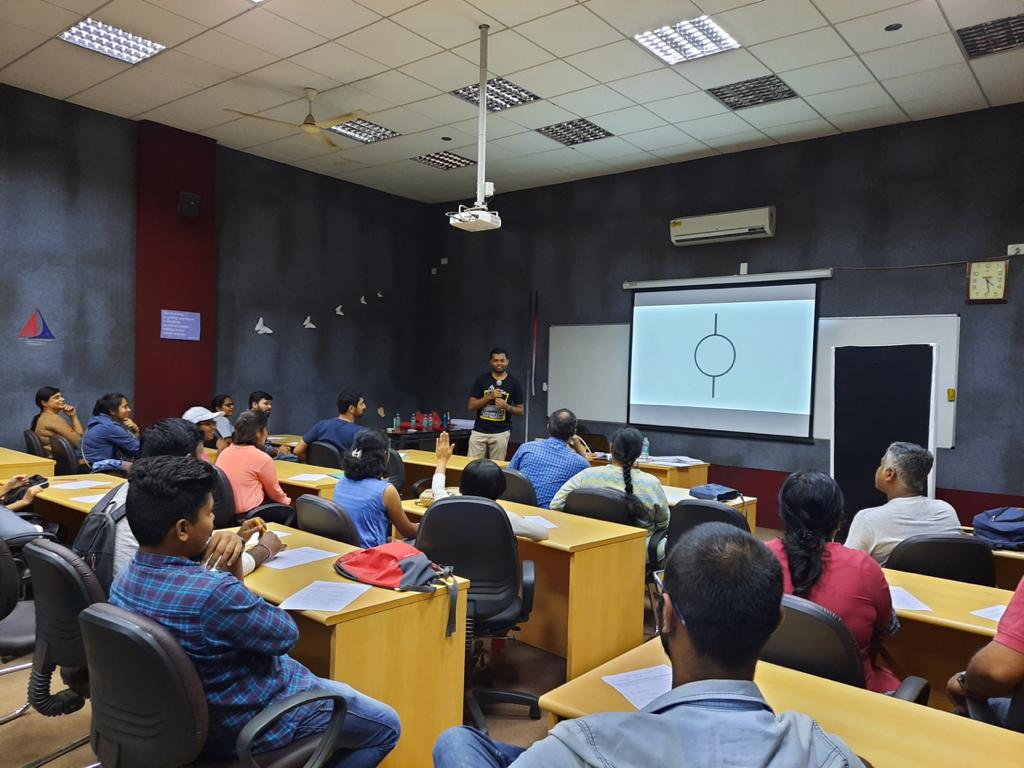
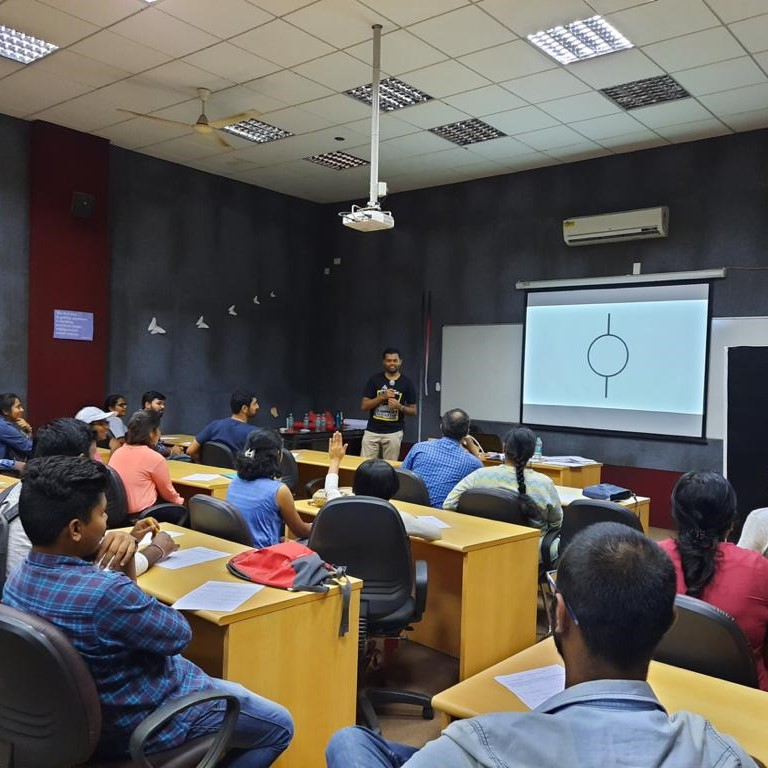
ghjfhj

diff --git a/index.html b/index.html
@@ -94,7 +94,7 @@
 							<div class="flex flex-3">
 								<div class="col align-center">
 									<div class="image round fit">
-										<img src="images/openday1.jpeg" alt="" />
+										<img src="images/openday2.jpeg" alt="" />
 									</div>
 									<p style="color:#333">Visitors involved with Torrance Creativity Test on Open Day 2020 @IISc</p>
 									<a href="#" class="button" style="background-color:#660000">Learn More</a>
